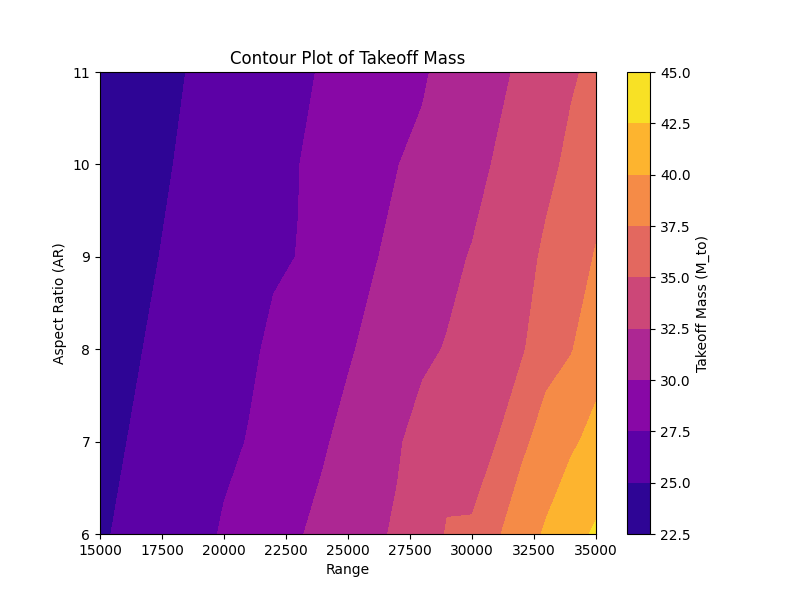
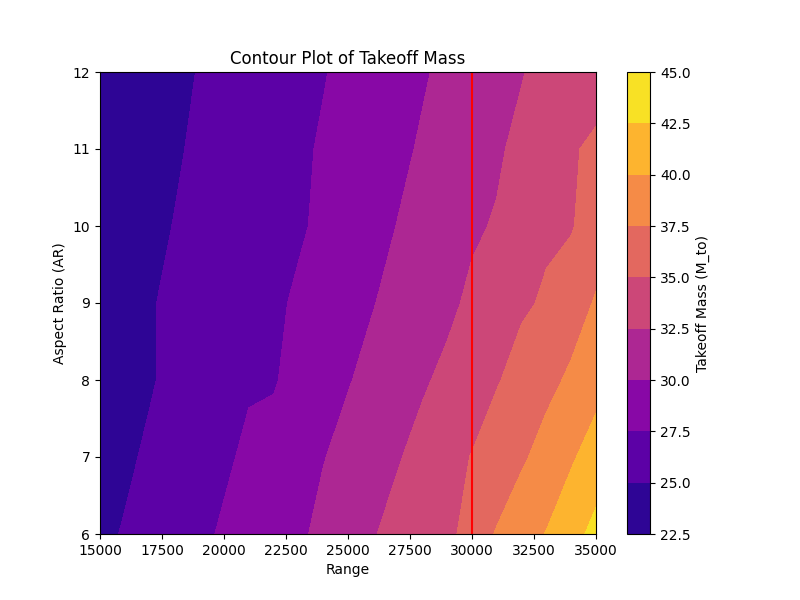
Added more plots

diff --git a/PreliminaryDesign/performance_analysis.py b/PreliminaryDesign/performance_analysis.py
@@ -2,6 +2,7 @@ from integration import inputs, integration_optimization
 import matplotlib.pyplot as plt
 import numpy as np
 from Classes.Contraints_for_mass_calculations import Constraints
+from mission_profile import SwarmProfile, UAVProfile
 # ~~~ AR, Range diagram ~~~
 
 def AR_range_diagram(AR_range: list, range_range: list, mass_calculation: callable, inputs: dict):
@@ -28,6 +29,7 @@ def AR_range_diagram(AR_range: list, range_range: list, mass_calculation: callab
     plt.figure(figsize=(8, 6))
     cp = plt.contourf(X, Y, Z, cmap='plasma')
     plt.colorbar(cp, label='Takeoff Mass (M_to)')
+    plt.vlines(30000, AR_range[0], AR_range[-1], label="Required Range", color="red")
 
     plt.xlabel('Range')
     plt.ylabel('Aspect Ratio (AR)')
@@ -80,6 +82,8 @@ def payload_range_diagram(payload_range: list, range_range: list, mass_calculati
     plt.figure(figsize=(8, 6))
     cp = plt.contourf(X, Y, Z, cmap='plasma')
     plt.colorbar(cp, label='Takeoff Mass (M_to)')
+    plt.vlines(30000, payload_range[0], payload_range[-1], label="Required Range", color="red")
+    plt.hlines(5, range_range[0], range_range[-1], color='red', label='Required Payload')
 
     plt.xlabel('Range')
     plt.ylabel('Payload mass')
@@ -87,22 +91,53 @@ def payload_range_diagram(payload_range: list, range_range: list, mass_calculati
     plt.savefig('PreliminaryDesign\Plots\payload_range.png')
     #plt.show()
 
-if __name__ == '__main__':
-    AR_range_diagram(np.arange(6, 12),np.arange(15000, 35001, 1000), integration_optimization, inputs)
-    cruise_speed_mass_diagram(np.arange(int(50/3.6), int(150/3.6), 2), inputs, integration_optimization)
-    payload_range_diagram(np.arange(0, 6.5, 0.5), np.arange(15000, 35001, 1000), integration_optimization, inputs)
-    
-    constraint_plot = Constraints(
-    inputs['V_stall'],
-    inputs['V_cruise'],
-    inputs["e"],
-    inputs["AR"],
-    inputs["CL_max"],
-    inputs["CD0"],
-    inputs["propeller_efficiency_cruise"],
-    inputs["RC_service"]
-    )
+def swarm_deployment_plot(V_range, l_range, inputs):
+    '''
+    Deployment rate as a function of V_cruise and aerogel length
+    '''
+    grid = []
+    res = []
+    for V in V_range:
+        for l in l_range:
+            current_inputs = inputs.copy()
+            current_inputs['aerogel_length'] = l
+            current_inputs['V_cruise'] = V
 
-    constraint_plot.plot(save=True)
+            current_UAV = UAVProfile(current_inputs)
+
+            current_inputs = current_UAV.size_uav_profile()
+
+            current_swarm = SwarmProfile(current_inputs)
+
+            current_swarm.mission_performance()
+
+            grid.append((V, l))
+            res.append(current_swarm.deployment_rate*60*60)
+
+    V_vals = sorted(set([pt[0] for pt in grid]))
+    l_vals = sorted(set([pt[1] for pt in grid]))
+
+    Z = np.array(res).reshape(len(V_vals), len(l_vals))
+    X, Y = np.meshgrid(l_vals, V_vals)  # X: range, Y: AR
+
+    plt.figure(figsize=(8, 6))
+    cp = plt.contourf(X, Y, Z, cmap='plasma')
+    plt.colorbar(cp, label='Deployment Rate')
+
+    plt.xlabel('Aerogel Length [m]')
+    plt.ylabel('Cruise speed [m/s]')
+    plt.title('Contour Plot of Deployment rate [m/h]')
+    plt.savefig('PreliminaryDesign\Plots\swarm_deployment.png')
+
+
+
+
+
+if __name__ == '__main__':
+    # AR_range_diagram(np.arange(6, 13),np.arange(15000, 35001, 1000), integration_optimization, inputs)
+    # cruise_speed_mass_diagram(np.arange(int(50/3.6), int(150/3.6), 2), inputs, integration_optimization)
+    # payload_range_diagram(np.arange(0, 6.5, 0.5), np.arange(15000, 35001, 1000), integration_optimization, inputs)
+    
+    swarm_deployment_plot(np.arange(int(60/3.6), int(150/3.6), 5), np.arange(0, 6, 0.5), inputs)
 
 

diff --git a/PreliminaryDesign/integration.py b/PreliminaryDesign/integration.py
@@ -70,9 +70,9 @@ mission_parameters = {
     "rho_max": 1.225, 
     "RC_service": 0.5,
     "h_service": 3000,
-    "R_max": 30000, #30000
+    "R_max": 20000, #30000
     "V_climb_v": 6, 
-    "V_cruise": 120/3.6, 
+    "V_cruise": 100/3.6, 
     "V_descent": 3,
     "required_perimeter": 1000, # m
     "deployment_accuracy": 0.5, # m (uncertainty of the deployment)
@@ -203,7 +203,7 @@ V_range = np.arange(40, 70, 2)
 
 tolerance = 1
 max_iterations = 200
-relevant = ['M_to', 'S_wing', 'b_wing', 'R_max', 'propeller_diameter', 'M_battery']
+relevant = ['M_to', 'S_wing', 'b_wing', 'R_max', 'propeller_diameter', 'M_battery', 'swarm_deployment_rate']
 
 doesnt_converge = set()
 def integration_optimization(tolerance: float, max_iterations: int, inputs: dict[str, float | int]) -> tuple[dict[str, float | int], dict[str, list[float]]]:
@@ -222,7 +222,7 @@ def integration_optimization(tolerance: float, max_iterations: int, inputs: dict
         swarm_sizing = SwarmProfile(current_inputs)
         outputs = swarm_sizing.size_swarm_profile()
 
-        uav_profile = UAVProfile(inputs)
+        uav_profile = UAVProfile(outputs)
         outputs = uav_profile.size_uav_profile()
         
 
@@ -254,23 +254,6 @@ def integration_optimization(tolerance: float, max_iterations: int, inputs: dict
     # print('result did not stabilize at max iteration')
     return outputs
 
-# print(integration_optimization(1, 100, inputs))
-
-def speed_optimisation(inputs, V_range, max_to):
-    all_outputs = []
-    for V in V_range:
-        print('Calculating for V=', V)
-        inputs['V_cruise'] = V
-        inputs['V_stall'] = 0.5 * V
-
-        outputs = integration_optimization(0.01, 100, inputs)
-        if outputs['M_to'] < max_to:
-            all_outputs.append(outputs)
-
-    if all_outputs:
-        return all_outputs[-1]
-    else:
-        return 'No viable outputs'
 
 if __name__ == '__main__':
     result = integration_optimization(1, 100, inputs)
@@ -278,3 +261,15 @@ if __name__ == '__main__':
     for i in result:
         if i in relevant:
             print(i, result[i])
+
+    
+    # Constraints(
+    #     inputs["V_stall"],
+    #     inputs["V_cruise"],
+    #     inputs["e"],
+    #     inputs["AR"],
+    #     inputs["CL_max"],
+    #     inputs["CD0"],
+    #     inputs["propeller_efficiency_cruise"],
+    #     inputs["RC_service"]
+    #     ).plot(save=True)

diff --git a/PreliminaryDesign/mission_profile.py b/PreliminaryDesign/mission_profile.py
@@ -429,7 +429,7 @@ class SwarmProfile:
 # example usage
 if __name__ == '__main__':
     mission_definition = []   # Define the mission profile here
-    swarm_inputs = {"h_cruise": 120, "R_max": 30000, "V_climb_v": 3, "V_cruise": 120/3.6, "V_descent": 3, "required_perimeter": 1000, 
+    swarm_inputs = {"h_cruise": 120, "R_max": 20000, "V_climb_v": 3, "V_cruise": 120/3.6, "V_descent": 3, "required_perimeter": 1000, 
                     "n_drones": 20, "n_nests": 1, "aerogel_length": 5, "aerogel_width": 1.5, "aerogel_thickness": 0.1, "deployment_accuracy": 0.1, "fire_break_width": 3}   
     uav_inputs = {"total_mission_time":1200, "total_mission_energy": 4000, "t_load": 1*60, "t_transition": 30, "t_scan": 60, "t_deploy": 5*60, "t_recharge": 5*60,
                   "P_load": 100, "P_r_VTOL": 3500, "P_r_FW": 1100, "P_a_transition": 4600, "P_r": 3500, "P_deploy": 4000}
@@ -439,7 +439,7 @@ if __name__ == '__main__':
 
     #mission = MissionProfile(inputs, inputs, inputs)
 
-    Swarm = SizeSwarm(inputs, verbose=True)
-    inputs = Swarm.update_parameters()
+    Swarm = SwarmProfile(inputs, verbose=True)
+    inputs = Swarm.size_swarm_profile()
 
     print(inputs)
